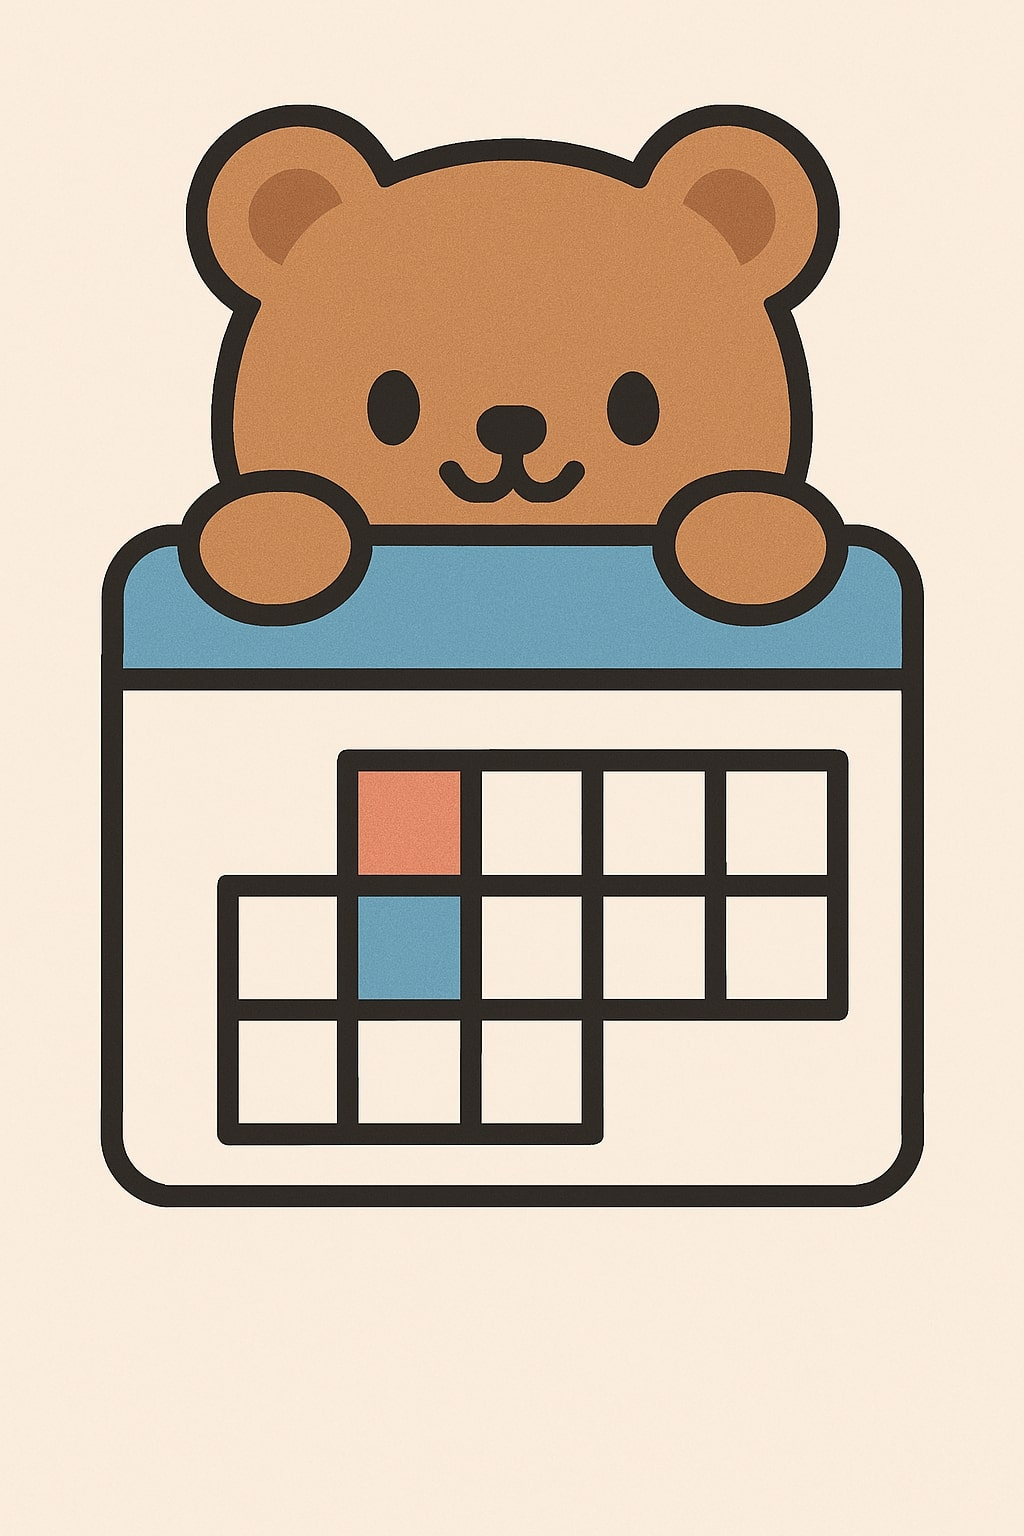
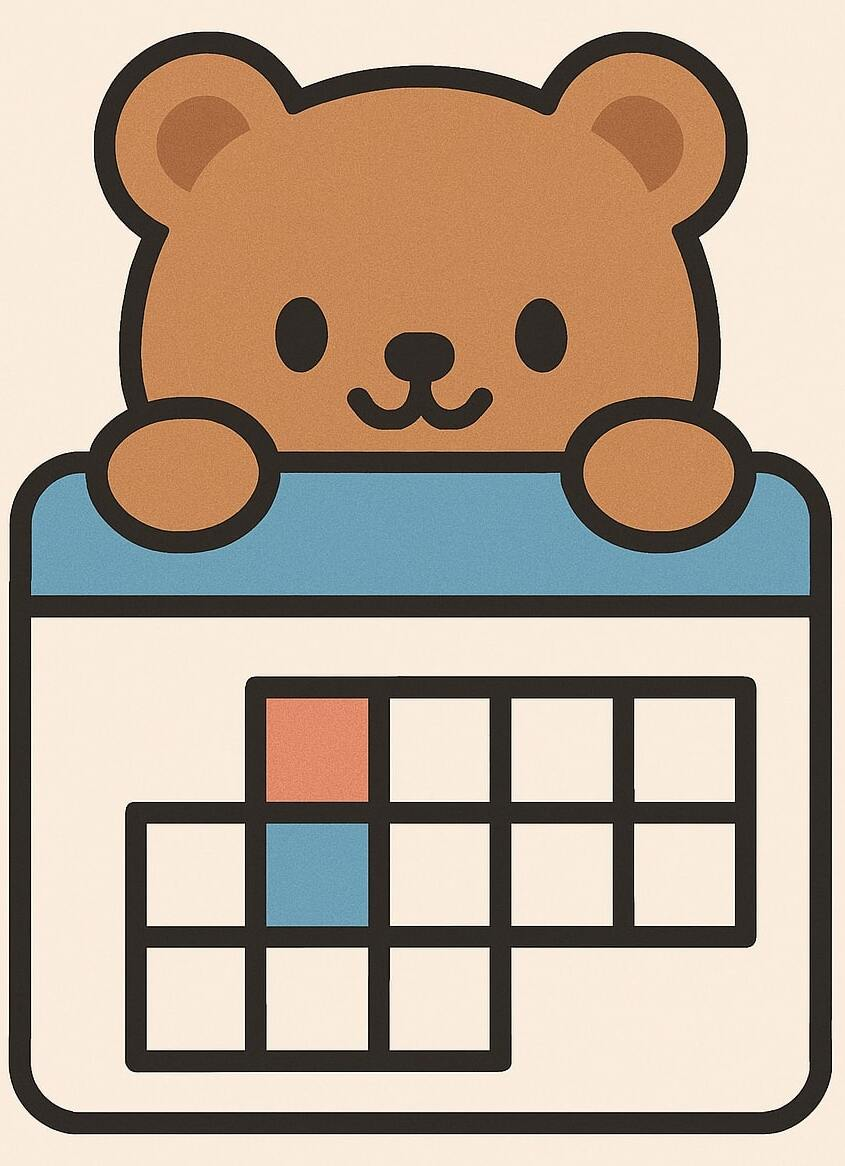
checkpoint

diff --git a/index.html b/index.html
@@ -23,13 +23,14 @@
         <office-card name="Food" image="./assets/images/food_selector.jpg" @click="navigateTo('food')"></office-card>
       </div>
       <div class="column is-half-mobile is-one-third-tablet">
-        <office-card name="Documents" image="./assets/images/todo.jpg" @click="navigateTo('todo')"></office-card>
+        <office-card name="To Do" image="./assets/images/todo.jpg" @click="navigateTo('todo')"></office-card>
       </div>
       <div class="column is-half-mobile is-one-third-tablet">
-        <office-card name="Mail" image="./assets/images/compliment.jpg" @click="navigateTo('compliment')"></office-card>
+        <office-card name="Reminder" image="./assets/images/compliment.jpg"
+          @click="navigateTo('compliment')"></office-card>
       </div>
       <div class="column is-half-mobile is-one-third-tablet">
-        <office-card name="Photos" image="./assets/images/calendar.jpg" @click="navigateTo('calendar')"></office-card>
+        <office-card name="Dates" image="./assets/images/calendar.jpg" @click="navigateTo('calendar')"></office-card>
       </div>
     </div>
   </div>

diff --git a/components/OfficeCard.js b/components/OfficeCard.js
@@ -13,9 +13,9 @@ app.component('office-card', {
         /* html */
         `
         <div class="card" style="cursor: pointer; height: 100%; box-shadow: 0 2px 3px rgba(0,0,0,0.1);">
-            <div class="card-image">
-                <figure class="image is-3by2">
-                    <img :src="image" :alt="name" style="object-fit: cover;">
+            <div class="card-image" style="height: 150px; overflow: hidden;">
+                <figure class="image is-3by2" style="height: 100%;">
+                    <img :src="image" :alt="name" class="office-card-image">
                 </figure>
             </div>
             <div class="card-content p-3">

diff --git a/assets/styles.css b/assets/styles.css
@@ -68,11 +68,13 @@ body {
 }
 
 .office-card-image {
-  width: 100%;
-  height: auto;
+  width: 100% !important;
+  height: 100% !important;
   border-radius: 10px;
-  object-fit: cover;
-  object-position: center;
+  object-fit: contain !important;
+  object-position: center !important;
+  padding: 5px;
+  background-color: white;
 }
 
 .office-card {
